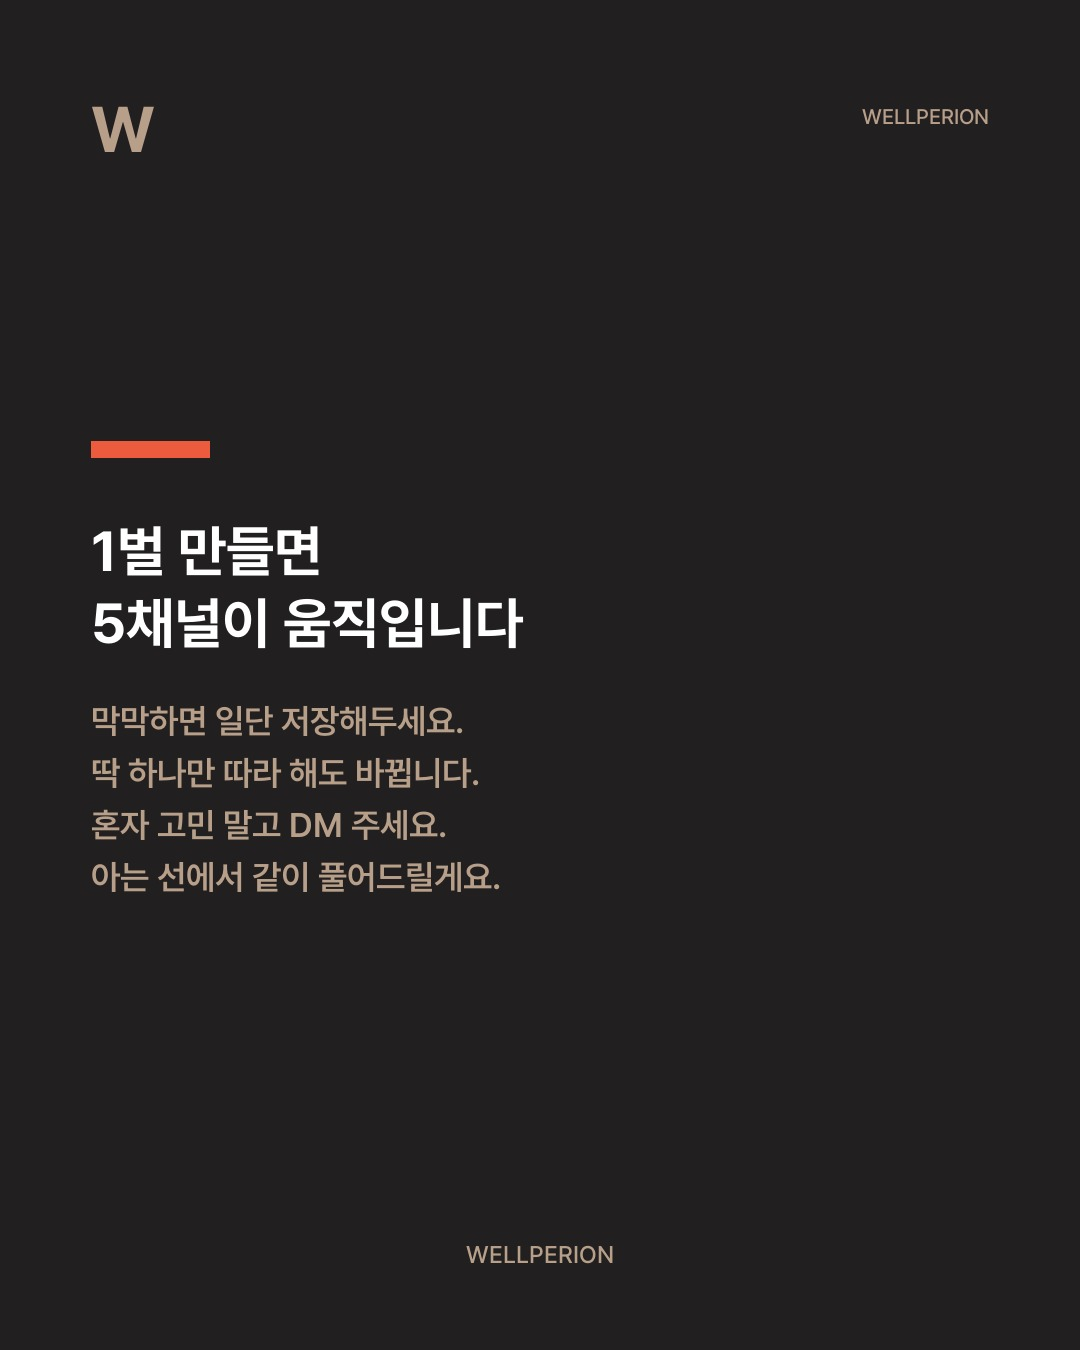
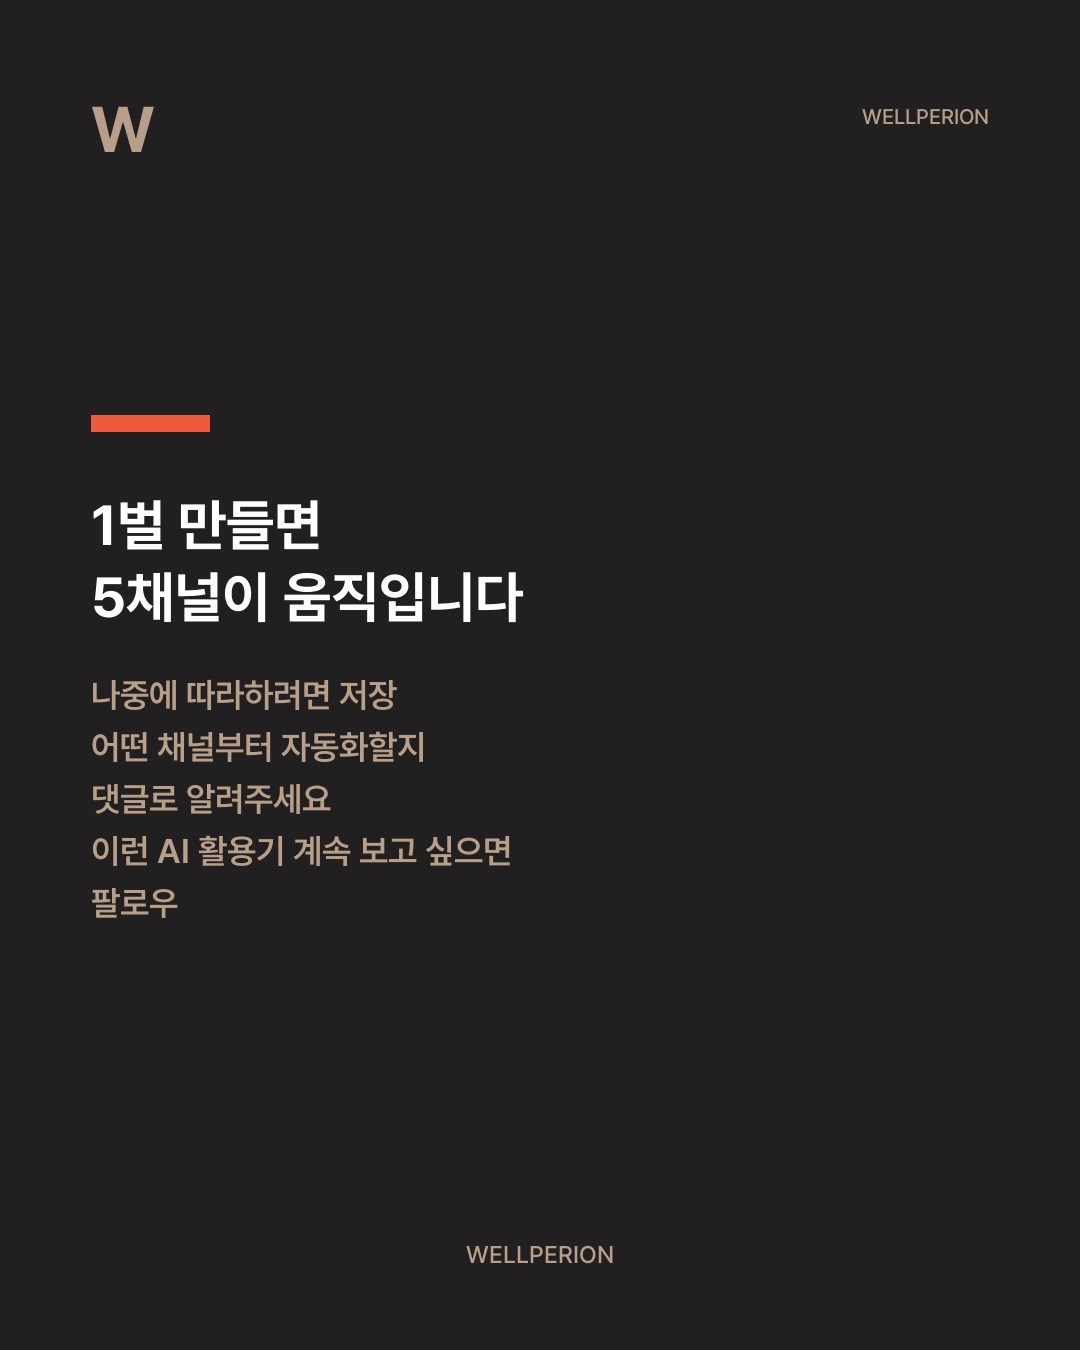
fix(cmo): AI #11 CTA 교체 — DM/문의URL 제거, 저장·댓글·팔로우 유도형으로 변경 (GM 결정)
큐레이션_추천.md·review_queue.json caption 동기화 + post_6.jpg 재생성(DM 문구 제거).
텔레그램 재발송 없음(콘텐츠당 1회 규칙 준수). 슬라이드 1~5장 무변경.

Changed region(s): [[0.0611, 0.3733, 0.4889, 0.6844], [0.0611, 0.28, 0.2139, 0.3422]]

diff --git a/instagram/260611_AI11_마케팅업로드자동화/build_slides.py b/instagram/260611_AI11_마케팅업로드자동화/build_slides.py
@@ -42,12 +42,10 @@ CAPTION = (
     "실제로 채널 하나당 따로 쓰던 시간이 절반 이상 줄었어요.\n"
     "완벽하진 않고, 가끔 수정도 해요.\n"
     "그래도 안 올리는 것보단 낫고, 빨라진 건 확실해요.\n\n"
-    "따라 해보고 싶으시면 딱 하나만: 글 하나를 써두고\n"
-    "\"이거 블로그 버전으로 바꿔줘\" AI한테 시켜보세요. 그게 시작이에요.\n\n"
-    "도움이 됐다면 저장해두세요.\n"
-    "혼자 고민 말고 DM 주세요 — 아는 선에서 같이 풀어드릴게요.\n"
-    "완벽하진 않아도, 함께 성장합시다.\n\n"
-    "문의 : wellperion.com/ko/inquiry\n\n"
+    "따라 해보고 싶으면 딱 하나만 — 글 하나 써두고 \"이거 블로그 버전으로 바꿔줘\" AI한테 시켜보세요. 그게 시작이에요.\n\n"
+    "📌 나중에 따라하려면 저장\n"
+    "💬 어떤 채널부터 자동화하고 싶으세요? 댓글로 알려주세요\n"
+    "👀 이런 AI 활용기 계속 보고 싶으면 팔로우\n\n"
     "#AI #AI활용 #마케팅자동화 #콘텐츠자동화 #SNS자동화 #스포츠클럽 #대표일상 #일하는방식 #한남동 #웰페리온"
 )
 
@@ -114,14 +112,14 @@ def main() -> None:
         paths.append(out)
         print(f"[OK] {out.name} - {r['layout']} ({r['size_kb']}KB)")
 
-    # 마지막 장 = 마무리 CTA (전 편 공통 시그니처 + 복합 바이럴)
+    # 마지막 장 = 저장·댓글·팔로우 유도형 CTA (2026-06-10 GM 결정 — DM/문의URL 제거)
     last_out = OUT / f"post_{len(SLIDES) + 1}.jpg"
     r = compose_text_slide(
         output=last_out,
         brand_key="main",
         logo_style=LOGO_STYLE,
         kor_title="1벌 만들면\n5채널이 움직입니다",
-        body="막막하면 일단 저장해두세요.\n딱 하나만 따라 해도 바뀝니다.\n혼자 고민 말고 DM 주세요.\n아는 선에서 같이 풀어드릴게요.",
+        body="나중에 따라하려면 저장\n어떤 채널부터 자동화할지\n댓글로 알려주세요\n이런 AI 활용기 계속 보고 싶으면\n팔로우",
     )
     print(f"[OK] {last_out.name} - slogan/DM card ({r['size_kb']}KB)")
     paths.append(last_out)

diff --git a/instagram/260611_AI11_마케팅업로드자동화/큐레이션_추천.md b/instagram/260611_AI11_마케팅업로드자동화/큐레이션_추천.md
@@ -24,14 +24,11 @@
 완벽하진 않고, 가끔 수정도 해요.
 그래도 안 올리는 것보단 낫고, 빨라진 건 확실해요.
 
-따라 해보고 싶으시면 딱 하나만: 글 하나를 써두고
-"이거 블로그 버전으로 바꿔줘" AI한테 시켜보세요. 그게 시작이에요.
+따라 해보고 싶으면 딱 하나만 — 글 하나 써두고 "이거 블로그 버전으로 바꿔줘" AI한테 시켜보세요. 그게 시작이에요.
 
-도움이 됐다면 저장해두세요.
-혼자 고민 말고 DM 주세요 — 아는 선에서 같이 풀어드릴게요.
-완벽하진 않아도, 함께 성장합시다.
-
-문의 : wellperion.com/ko/inquiry
+📌 나중에 따라하려면 저장
+💬 어떤 채널부터 자동화하고 싶으세요? 댓글로 알려주세요
+👀 이런 AI 활용기 계속 보고 싶으면 팔로우
 
 #AI #AI활용 #마케팅자동화 #콘텐츠자동화 #SNS자동화 #스포츠클럽 #대표일상 #일하는방식 #한남동 #웰페리온
 
